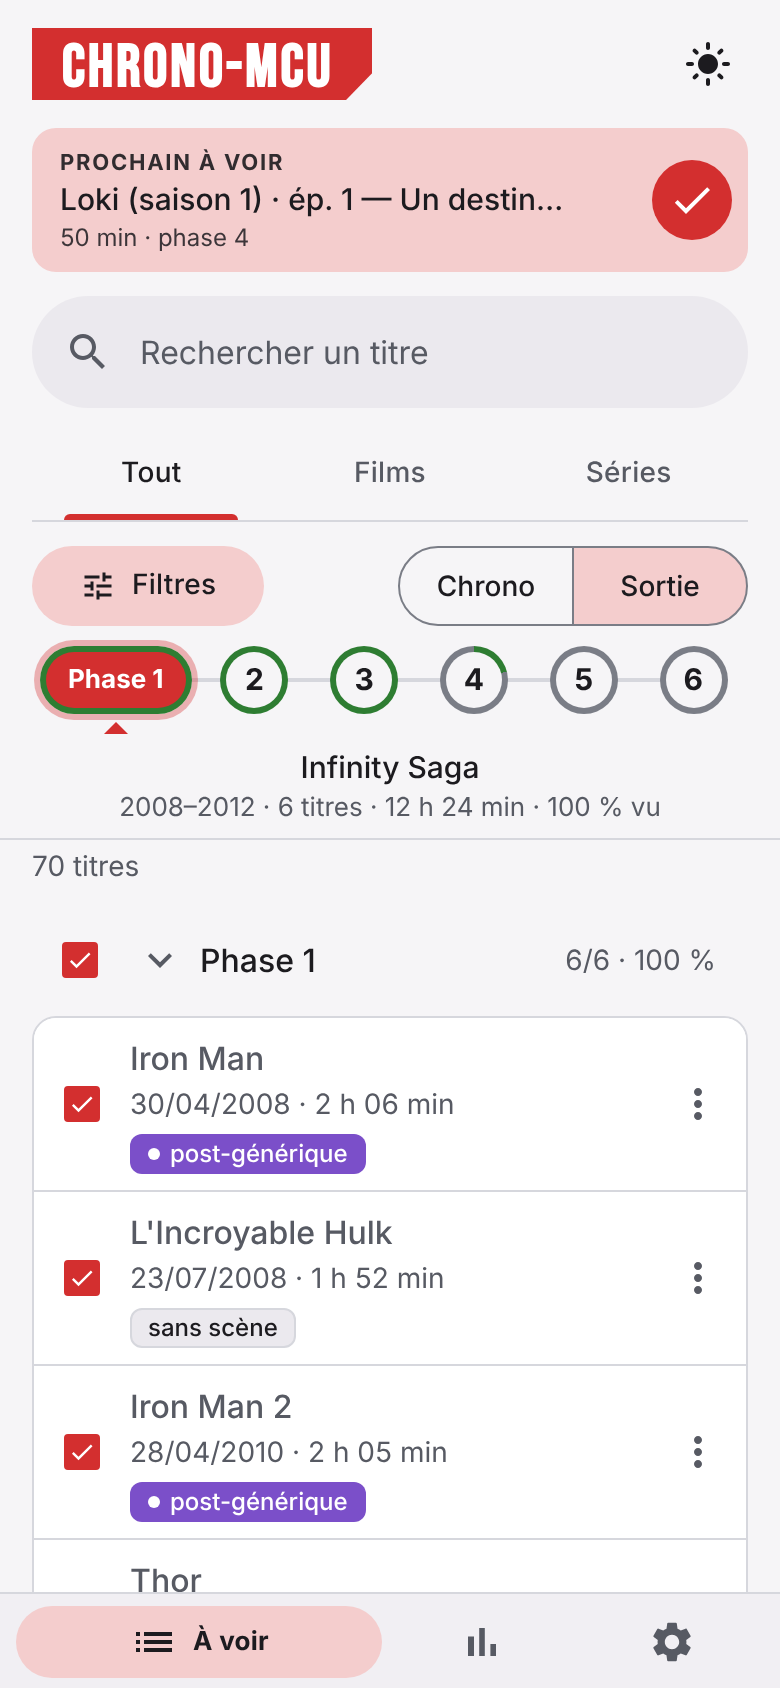
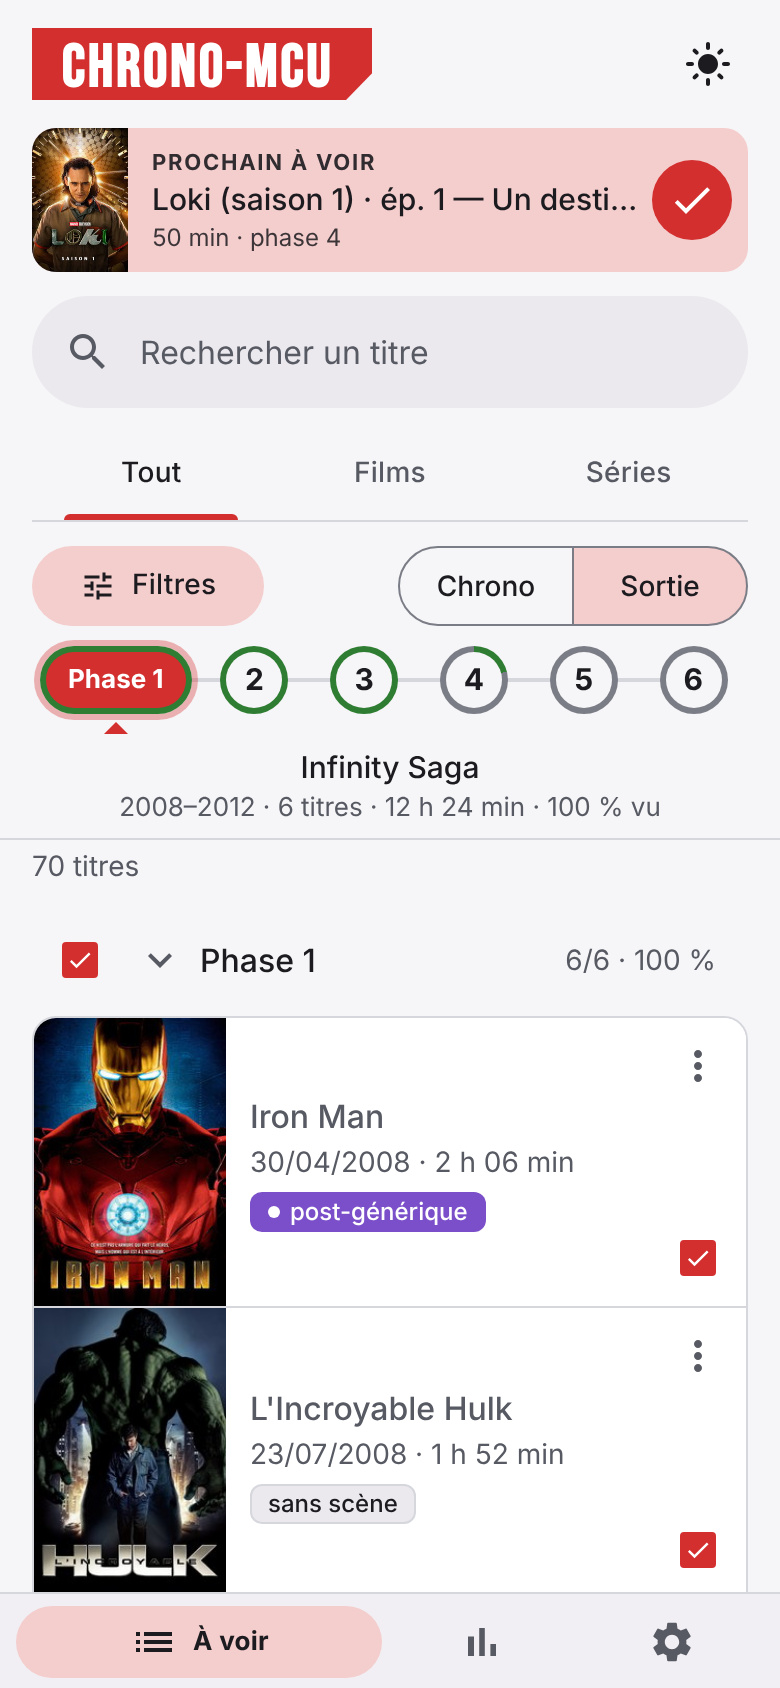
Captures d'écran avec les affiches (TMDB)
Claude-Session: https://claude.ai/code/session_0196Y4JC1JxddNd4dhMnukZC

diff --git a/README.md b/README.md
@@ -8,7 +8,7 @@ Suivi de visionnage du MCU (films et séries Disney+), façon Chronogeek. Applic
 |---|---|---|---|---|
 | ![À voir, thème sombre](docs/screenshots/a-voir-sombre.png) | ![À voir, thème clair](docs/screenshots/a-voir-clair.png) | ![Fiche d'un titre](docs/screenshots/fiche.png) | ![Progression](docs/screenshots/progression.png) | ![Succès](docs/screenshots/succes.png) |
 
-Données de démonstration (progression fictive, sans affiches). Pour les régénérer : `npm run screenshots`.
+Données de démonstration (progression fictive). Affiches © leurs ayants droit, fournies par [TMDB](https://www.themoviedb.org) (ce produit utilise l'API TMDB sans être approuvé ni certifié par TMDB). Pour régénérer les captures : `npm run screenshots` (réseau nécessaire pour les affiches).
 
 ## Fonctions
 
